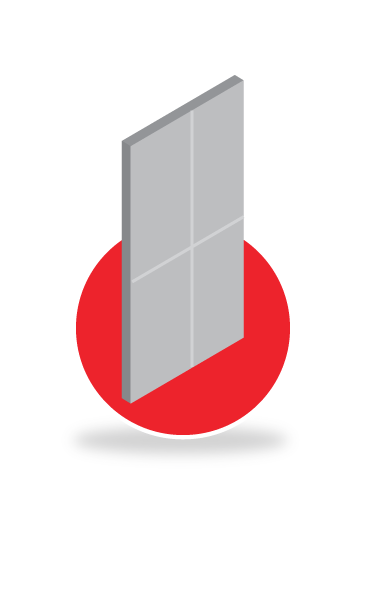
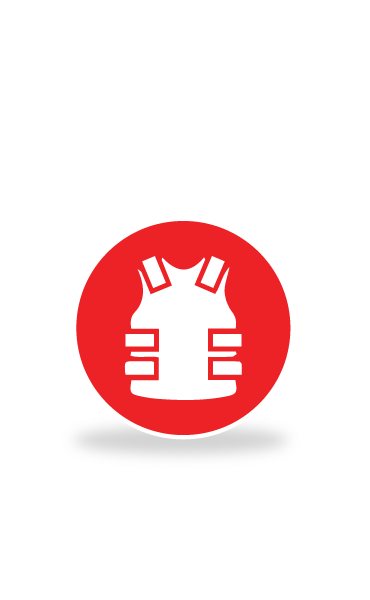
isr/osr updated

diff --git a/combat-training-system/shooting-ranges/indoor-shooting-range.html b/combat-training-system/shooting-ranges/indoor-shooting-range.html
@@ -214,8 +214,10 @@
                         <div class="img-holder text-center ">
                             <img src="img/isr/key-features/kf2.png" class="img-fluid" style="position: relative;left:5%;top:-40%">
                         </div>
-                        <h4>BALLISTIC SHIELD</h4>
-                        <p class="text-muted" style="font-size:14px">all windows, doors and panels come equipped with anti ballistic material.</p>
+                        <h4>BALLISTIC Panels</h4>
+                        <p class="text-muted" style="font-size:14px">Aimtrex Ballistic panels meet
+and exceed global military
+training standards.</p>
                     </div>
                 </div>
                 <div class="col-md-4 col-sm-6 portfolio-item wow fadeInUp">
@@ -291,6 +293,47 @@
                     <h5 >PA-Intercom</h5>
                     <p class="text-muted c-w   " style="font-weight: 200">the range requires no outside setup or electricity which ensures independent and hassle free usages. </p>
                 </div>
+                <div class="col-md-4  gf  col-sm-6 col-8 offset-sm-0 offset-md-0 offset-2  wow fadeInUp">
+                    <img src="img/isr/essential-features/ef-05.png">
+                    <h5 >SAFETY MEASURES</h5>
+                    <p class="text-muted c-w   " style="font-weight: 200">
+Special attention to safety provided:
+firefighting equipment, emergency
+alarms, emergency exits, and
+anti-ricochet treatment in every range.</p>
+                </div>
+                <div class="col-md-4  gf  col-sm-6 col-8 offset-sm-0 offset-md-0 offset-2  wow fadeInUp">
+                    <img src="img/isr/essential-features/ef-06.png">
+                    <h5 >UPGRADE YOUR RANGE</h5>
+                    <p class="text-muted c-w   " style="font-weight: 200">Packages to modernize existing
+buildings to accommodate modern
+indoor shooting ranges are available.</p>
+                </div>
+                <div class="col-md-4  gf  col-sm-6 col-8 offset-sm-0 offset-md-0 offset-2  wow fadeInUp">
+                    <img src="img/isr/essential-features/ef-07.png">
+                    <h5 >CUSTOMIZED RANGE</h5>
+                    <p class="text-muted c-w   " style="font-weight: 200">Separate areas for Range Control
+Officers and training classrooms are
+customised. </p>
+                </div>
+                <div class="col-md-4  gf  col-sm-6 col-8 offset-sm-0 offset-md-0 offset-2  wow fadeInUp">
+                    <img src="img/isr/essential-features/ef-08.png">
+                    <h5 >COMPETITIVE COST</h5>
+                    <p class="text-muted c-w   " style="font-weight: 200">World-class indoor shooting ranges at affordable prices.
+Established international practices are suitably modified to suit Indian
+forces. </p>
+                </div>
+                <div class="col-md-4  gf  col-sm-6 col-8 offset-sm-0 offset-md-0 offset-2  wow fadeInUp">
+                    <img src="img/isr/essential-features/ef-09.png">
+                    <h5 >FIELD PROVEN</h5>
+                    <p class="text-muted c-w   " style="font-weight: 200">Only Indian Company, which has on
+ground experience
+
+With a proven track record of building
+cutting-edge indoor shooting ranges in
+
+India.</p>
+                </div>
             </div>
         </div>
     </section>
@@ -311,8 +354,6 @@
                         <img  src="img/isr/carousel/2.jpg">
                         <img   src="img/isr/carousel/3.jpg">
                         <img   src="img/isr/carousel/5.jpg">
-
-
                     </div>
                 </div>
             </div>

diff --git a/combat-training-system/shooting-ranges/outdoor-shooting-range.html b/combat-training-system/shooting-ranges/outdoor-shooting-range.html
@@ -410,6 +410,17 @@ Ensuring you are always in control.
                         <p class="text-muted" style="font-size:14px">all windows, doors and panels come equipped with anti ballistic material.</p> -->
                     </div>
                 </div>
+                <div class="col-md-4 col-sm-6 portfolio-item wow fadeInUp">
+
+                    <div class="portfolio-caption text-center">
+                        <div class="text-center ">
+                            <img src="img/isr/types-ranges/icon-10.png" class="img-fluid" style="position: relative;left:5%;top:-40%">
+                        </div>
+                        <h4>Hostage / Rescue Range</h4>
+                        <!--
+                        <p class="text-muted" style="font-size:14px">all windows, doors and panels come equipped with anti ballistic material.</p> -->
+                    </div>
+                </div>
             </div>
         </div>
     </section>
